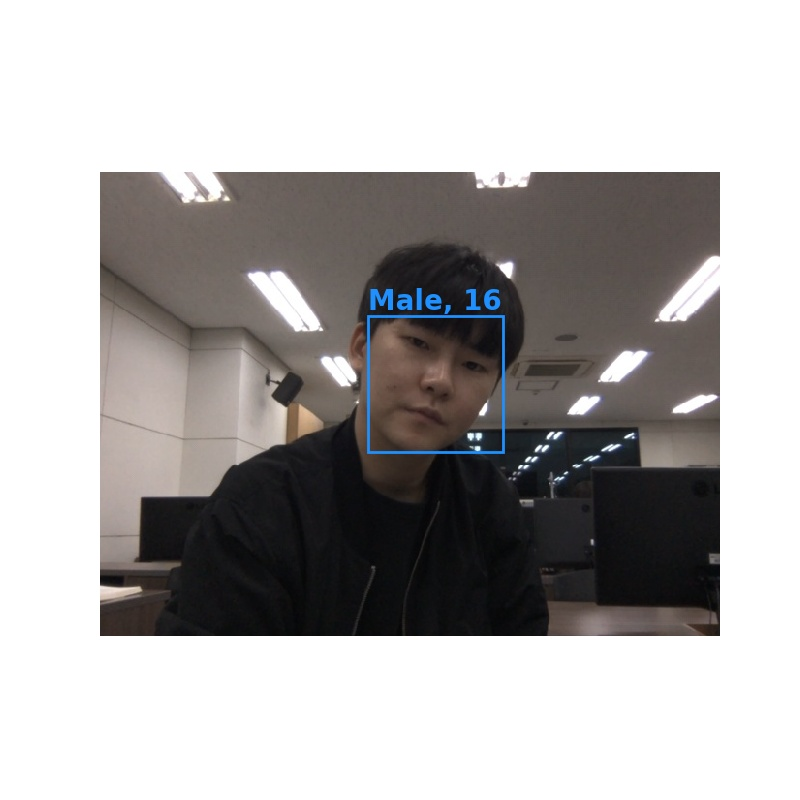
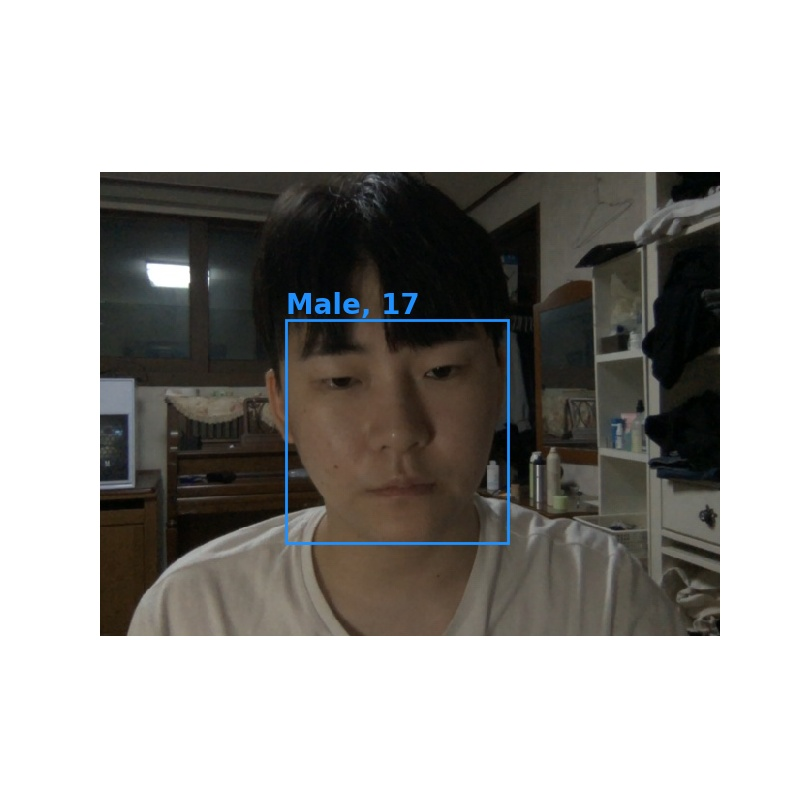
face recog if fail, restart version

diff --git a/modules/MMM-Testpython/MMM-Testpython.js b/modules/MMM-Testpython/MMM-Testpython.js
@@ -55,21 +55,30 @@ Module.register("MMM-Testpython", {
 			  var age = payload3[1];
         var elemk = document.getElementById("clickid1")
         var elemk2 = document.getElementById("showage");
-        elemk.style.fontSize="1.9em"
-        elemk2.style.fontSize="1.4em"
-        elemk.innerHTML = "고객님의 예상나이는" + age + "살 입니다.";
-        elemk2.innerHTML = "두번째페이지를 눌러주시면 나이에 맞는 관광명소를 제공해드립니다"; 
-        if (age < 20){
-          this.sendNotification("teen");
+        if(payload=="notFind"){
+          console.log("fuckyou notFind")
+          elemk.innerHTML = "다시 눌러주세요!";
+          elemk2.innerHTML = "얼굴인식실패!"; 
         }
-        else {
-          this.sendNotification("adult");
-        }
-        elemk.addEventListener("click", () => {
-          //Testpythons.sendNotification("gotoairport")
-          console.log("airairairair")
-          
+        else if(payload!="notFind"){
+          elemk.style.fontSize="1.9em"
+          elemk2.style.fontSize="1.4em"
+          elemk.innerHTML = "고객님의 예상나이는" + age + "살 입니다.";
+          elemk2.innerHTML = "두번째페이지를 눌러주시면 나이에 맞는 관광명소를 제공해드립니다";
+            if (age < 20){
+              this.sendNotification("teen");
+            }
+            else {
+              this.sendNotification("adult");
+            }
+            elemk.addEventListener("click", () => {
+              //Testpythons.sendNotification("gotoairport")
+              console.log("airairairair")
+              
         })
+        } 
+        
+        
       break;
       case "only_camera":
         this.hide();

diff --git a/modules/WhatAge/WhatAge.js b/modules/WhatAge/WhatAge.js
@@ -192,6 +192,14 @@ Module.register("WhatAge", {
 			console.log("fufufufufu 1: " + payload);
 			
 			this.sendNotification("agecomplete",payload);
+			if(payload=="notFind")
+			{
+				this.config.a=0;
+			}
+			else if(payload!="notFind")
+			{
+				this.config.a=1;
+			}
 			this.sendNotification("camera_start");
 			console.log("fufufufufufufufufu");
 		}

diff --git a/modules/WhatAge/FCF.py b/modules/WhatAge/FCF.py
@@ -9,14 +9,14 @@ import cv2
 cap = cv2.VideoCapture(0)
 
 ret, frame = cap.read()
-cv2.imwrite('C:/AirportHelper/modules/WhatAge/face.jpg', frame)
+cv2.imwrite('C:/AirportHelper/modules/WhatAge/Button/cognitiveface.jpg', frame)
 
 cap.release()
 cv2.destroyAllWindows()
 
 subscription_key = "e90829078be54f04832525fddedf00b4"
 
-image_path = os.path.join('C:/AirportHelper/modules/WhatAge/face.jpg')
+image_path = os.path.join('C:/AirportHelper/modules/WhatAge/Button/cognitiveface.jpg')
 
 assert subscription_key
 
@@ -43,19 +43,21 @@ image = Image.open(BytesIO(image_read))
 
 plt.figure(figsize=(8, 8))
 ax = plt.imshow(image, alpha=1)
-for face in faces:
-    fr = face["faceRectangle"]
-    fa = face["faceAttributes"]
-    origin = (fr["left"], fr["top"])
-    p = patches.Rectangle(
-        origin, fr["width"], fr["height"], fill=False, linewidth=2, color='dodgerblue')
-    ax.axes.add_patch(p)
-    plt.text(origin[0], origin[1], "%s, %d"%(fa["gender"].capitalize(), fa["age"]),
-             fontsize=20, weight="bold", va="bottom", color='dodgerblue')
-_ = plt.axis("off")
 
-fig = plt.gcf()
-fig.savefig('C:/AirportHelper/modules/WhatAge/Button/cognitiveface.jpg')
-
-print(fa["gender"])
-print(fa["age"])
+try:
+    for face in faces:
+        fr = face["faceRectangle"]
+        fa = face["faceAttributes"]
+        origin = (fr["left"], fr["top"])
+        p = patches.Rectangle(
+            origin, fr["width"], fr["height"], fill=False, linewidth=2, color='dodgerblue')
+        ax.axes.add_patch(p)
+        plt.text(origin[0], origin[1], "%s, %d"%(fa["gender"].capitalize(), fa["age"]),
+                 fontsize=20, weight="bold", va="bottom", color='dodgerblue')
+    _ = plt.axis("off")
+    fig = plt.gcf()
+    fig.savefig('C:/AirportHelper/modules/WhatAge/Button/cognitiveface.jpg')
+    print(fa["gender"])
+    print(fa["age"])
+except Exception as e:
+    print("notFind")
